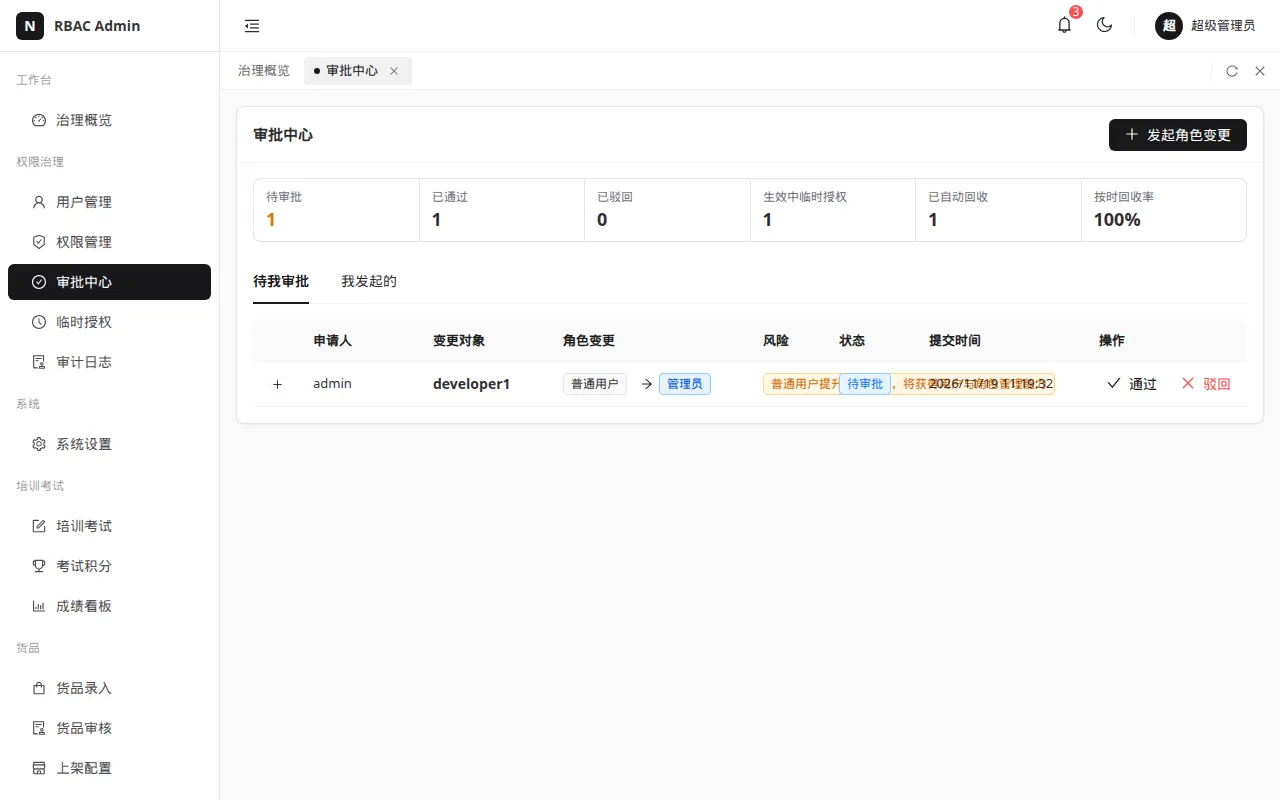
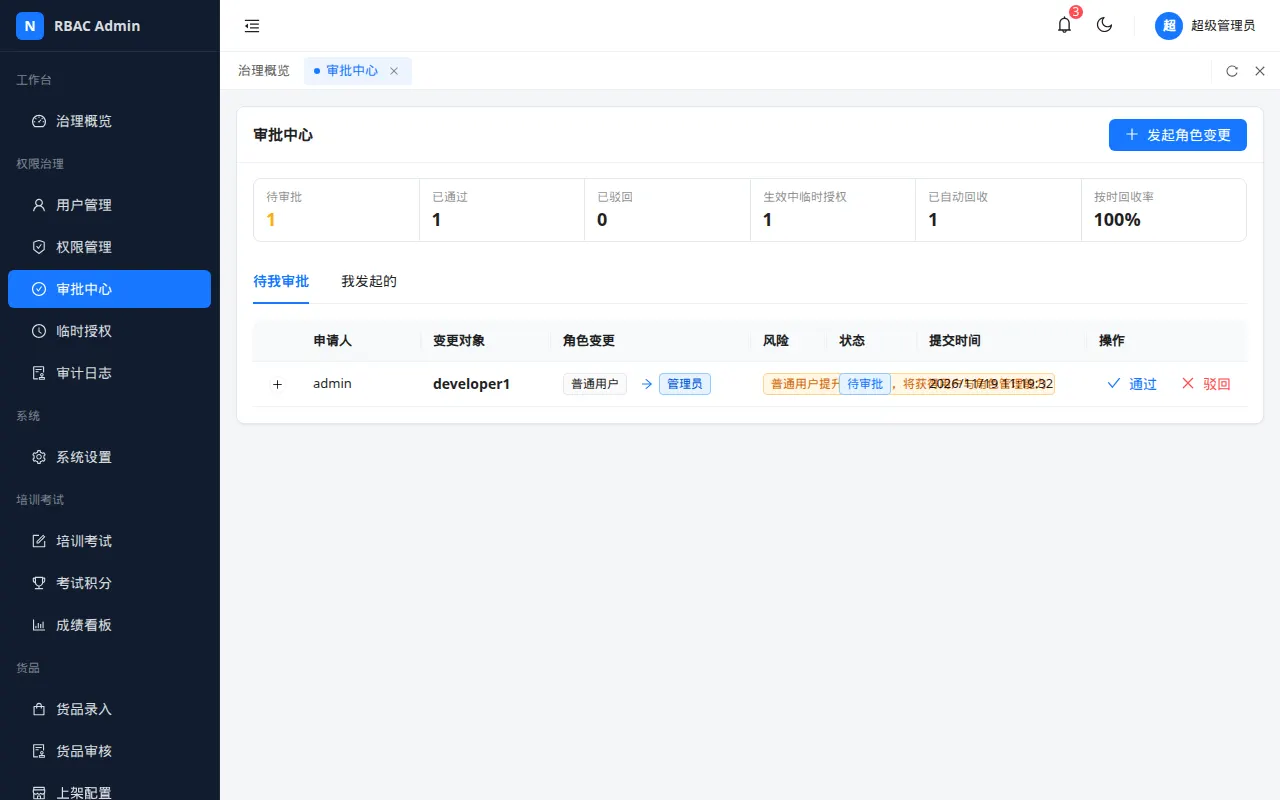
style: restore the original blue theme colors
Put #1677ff back as the accent for buttons, links, focus, and the
selected sidebar item. Surfaces and the navy sidebar return to the
pre-pass slate values in both themes. Chart series use the original
blue and category colors. The flat login, type, and layout changes stay.

diff --git a/app/globals.css b/app/globals.css
@@ -6,49 +6,49 @@
  * Design Tokens —— 数据密集型企业风（明色）
  * ============================================================ */
 :root {
-  /* 浅色：微暖灰白底 + 纯白面板。强调色只有墨色。 */
-  --bg-layout: #fafafa;
+  /* 浅色表面回到原来的冷调 slate，强调色是 #1677ff。 */
+  --bg-layout: #f4f6f8;
   --bg-container: #ffffff;
   --bg-elevated: #ffffff;
-  --bg-subtle: #f4f4f5;
-  --bg-hover: rgba(24, 24, 27, 0.04);
-  --bg-active: rgba(24, 24, 27, 0.06);
+  --bg-subtle: #f7f9fb;
+  --bg-hover: rgba(15, 23, 42, 0.04);
+  --bg-active: rgba(22, 119, 255, 0.08);
 
-  --sider-bg: #ffffff;
-  --sider-bg-hover: rgba(24, 24, 27, 0.04);
-  --sider-bg-selected: #18181b;
-  --sider-text: rgba(24, 24, 27, 0.88);
-  --sider-text-muted: rgba(24, 24, 27, 0.45);
-  --sider-divider: #e4e4e7;
+  --sider-bg: #101c2e;
+  --sider-bg-hover: rgba(255, 255, 255, 0.07);
+  --sider-bg-selected: #1677ff;
+  --sider-text: rgba(255, 255, 255, 0.85);
+  --sider-text-muted: rgba(255, 255, 255, 0.45);
+  --sider-divider: rgba(255, 255, 255, 0.08);
 
-  --border-base: rgba(228, 228, 231, 0.95);
-  --border-subtle: #f4f4f5;
-  --border-strong: #d4d4d8;
+  --border-base: #e3e8ef;
+  --border-subtle: #eef1f5;
+  --border-strong: #cdd5df;
 
-  --text-primary: rgba(24, 24, 27, 0.92);
-  --text-secondary: rgba(24, 24, 27, 0.65);
-  --text-tertiary: #71717a;
-  --text-disabled: rgba(24, 24, 27, 0.28);
+  --text-primary: rgba(0, 0, 0, 0.88);
+  --text-secondary: rgba(0, 0, 0, 0.65);
+  --text-tertiary: rgba(0, 0, 0, 0.45);
+  --text-disabled: rgba(0, 0, 0, 0.25);
 
-  --color-primary: #18181b;
-  --color-primary-hover: #27272a;
-  --color-primary-active: #09090b;
+  --color-primary: #1677ff;
+  --color-primary-hover: #4096ff;
+  --color-primary-active: #0958d9;
   --accent-contrast: #ffffff;
-  --color-success: #16a34a;
+  --color-success: #52c41a;
   --color-success-bg: #f0fdf4;
-  --color-success-text: #15803d;
-  --color-warning: #d97706;
-  --color-danger: #dc2626;
-  --color-info: #18181b;
+  --color-success-text: #16a34a;
+  --color-warning: #faad14;
+  --color-danger: #ff4d4f;
+  --color-info: #1677ff;
 
-  --chart-stroke: #18181b;
-  --chart-grid: #e4e4e7;
-  --chart-fill: rgba(24, 24, 27, 0.12);
-  --chart-muted: #71717a;
+  --chart-stroke: #1677ff;
+  --chart-grid: rgba(128, 128, 128, 0.15);
+  --chart-fill: rgba(22, 119, 255, 0.25);
+  --chart-muted: rgba(0, 0, 0, 0.45);
 
   /* —— 状态标签 —— */
-  --tag-muted-bg: #f4f4f5;
-  --tag-muted-text: #52525b;
+  --tag-muted-bg: #f3f4f6;
+  --tag-muted-text: #6b7280;
 
   --shadow-card: 0 1px 2px rgba(0, 0, 0, 0.04);
   --shadow-elevated: 0 1px 2px rgba(0, 0, 0, 0.06);
@@ -69,49 +69,49 @@
   --sider-width-collapsed: 64px;
 
   /* —— Table 专用 token —— */
-  --table-stripe-bg: #fafafa;
+  --table-stripe-bg: #ebf0f9;
 }
 
 /* ============================================================
  * Design Tokens —— 暗色主题
  * ============================================================ */
 html[data-theme='dark'] {
-  /* 深色：中性锌黑，不用发蓝的 slate。强调色反转为浅灰，保证按钮可读。 */
-  --table-stripe-bg: #18181b;
+  /* 暗色表面回到原来的蓝灰，强调色仍是 #1677ff。 */
+  --table-stripe-bg: #1a1d25;
 
-  --bg-layout: #09090b;
-  --bg-container: #18181b;
-  --bg-elevated: #27272a;
-  --bg-subtle: #18181b;
+  --bg-layout: #0f1115;
+  --bg-container: #181a20;
+  --bg-elevated: #1f2128;
+  --bg-subtle: #14161b;
   --bg-hover: rgba(255, 255, 255, 0.06);
-  --bg-active: rgba(255, 255, 255, 0.08);
+  --bg-active: rgba(22, 119, 255, 0.16);
 
-  --sider-bg: #09090b;
-  --sider-bg-hover: rgba(255, 255, 255, 0.06);
-  --sider-bg-selected: #f4f4f5;
-  --sider-text: rgba(255, 255, 255, 0.88);
+  --sider-bg: #0a0c10;
+  --sider-bg-hover: rgba(255, 255, 255, 0.07);
+  --sider-bg-selected: #1677ff;
+  --sider-text: rgba(255, 255, 255, 0.85);
   --sider-text-muted: rgba(255, 255, 255, 0.45);
-  --sider-divider: rgba(255, 255, 255, 0.08);
+  --sider-divider: rgba(255, 255, 255, 0.06);
 
-  --border-base: rgba(255, 255, 255, 0.08);
-  --border-subtle: rgba(255, 255, 255, 0.06);
-  --border-strong: rgba(255, 255, 255, 0.16);
+  --border-base: #2a2d36;
+  --border-subtle: #23262e;
+  --border-strong: #3a3d47;
 
-  --text-primary: rgba(255, 255, 255, 0.92);
+  --text-primary: rgba(255, 255, 255, 0.88);
   --text-secondary: rgba(255, 255, 255, 0.65);
   --text-tertiary: rgba(255, 255, 255, 0.45);
-  --text-disabled: rgba(255, 255, 255, 0.28);
+  --text-disabled: rgba(255, 255, 255, 0.25);
 
-  --color-primary: #f4f4f5;
-  --color-primary-hover: #ffffff;
-  --color-primary-active: #e4e4e7;
-  --accent-contrast: #18181b;
-  --color-success-bg: rgba(22, 163, 74, 0.16);
-  --color-success-text: #4ade80;
+  --color-primary: #1677ff;
+  --color-primary-hover: #4096ff;
+  --color-primary-active: #0958d9;
+  --accent-contrast: #ffffff;
+  --color-success-bg: rgba(82, 196, 26, 0.16);
+  --color-success-text: #73d13d;
 
-  --chart-stroke: #e4e4e7;
-  --chart-grid: rgba(255, 255, 255, 0.08);
-  --chart-fill: rgba(244, 244, 245, 0.12);
+  --chart-stroke: #1677ff;
+  --chart-grid: rgba(128, 128, 128, 0.2);
+  --chart-fill: rgba(22, 119, 255, 0.25);
   --chart-muted: rgba(255, 255, 255, 0.45);
 
   --tag-muted-bg: rgba(255, 255, 255, 0.08);
@@ -529,10 +529,10 @@ a {
 
 /* 侧边栏深色滚动条 */
 .admin-sider ::-webkit-scrollbar-thumb {
-  background: var(--border-strong);
+  background: rgba(255, 255, 255, 0.15);
 }
 .admin-sider ::-webkit-scrollbar-thumb:hover {
-  background: var(--text-tertiary);
+  background: rgba(255, 255, 255, 0.3);
 }
 
 .stat-strip {

diff --git a/components/providers/ThemeProvider.tsx b/components/providers/ThemeProvider.tsx
@@ -135,8 +135,8 @@ export function ThemeProvider({ children }: ThemeProviderProps) {
       prefix: 'ant',
     },
     token: {
-      colorPrimary: resolved === 'dark' ? '#f4f4f5' : '#18181b',
-      colorLink: resolved === 'dark' ? '#f4f4f5' : '#18181b',
+      colorPrimary: '#1677ff',
+      colorLink: '#1677ff',
       fontFamily: '"SF Pro Text", "Segoe UI", "PingFang SC", "Hiragino Sans GB", "Noto Sans SC", "Microsoft YaHei", sans-serif',
       borderRadius: 6,
       fontSize: 14,
@@ -145,34 +145,29 @@ export function ThemeProvider({ children }: ThemeProviderProps) {
       fontSizeHeading4: 18,
       fontSizeHeading5: 16,
       wireframe: false,
-      colorBgLayout: resolved === 'dark' ? '#09090b' : '#fafafa',
-      colorBgContainer: resolved === 'dark' ? '#18181b' : '#ffffff',
-      colorBgElevated: resolved === 'dark' ? '#27272a' : '#ffffff',
-      colorBorder: resolved === 'dark' ? 'rgba(255,255,255,0.08)' : '#e4e4e7',
-      colorBorderSecondary: resolved === 'dark' ? 'rgba(255,255,255,0.06)' : '#f4f4f5',
-      colorText: resolved === 'dark' ? 'rgba(255,255,255,0.92)' : 'rgba(24,24,27,0.92)',
+      colorBgLayout: resolved === 'dark' ? '#0f1115' : '#f4f6f8',
+      colorBgContainer: resolved === 'dark' ? '#181a20' : '#ffffff',
+      colorBgElevated: resolved === 'dark' ? '#1f2128' : '#ffffff',
+      colorBorder: resolved === 'dark' ? '#2a2d36' : '#e3e8ef',
+      colorBorderSecondary: resolved === 'dark' ? '#23262e' : '#eef1f5',
+      colorText: resolved === 'dark' ? 'rgba(255,255,255,0.88)' : 'rgba(0,0,0,0.88)',
     },
     components: {
       Layout: {
-        headerBg: resolved === 'dark' ? '#18181b' : '#ffffff',
+        headerBg: resolved === 'dark' ? '#181a20' : '#ffffff',
         headerHeight: 52,
         headerPadding: '0 16px',
-        siderBg: resolved === 'dark' ? '#09090b' : '#ffffff',
-        bodyBg: resolved === 'dark' ? '#09090b' : '#fafafa',
+        siderBg: resolved === 'dark' ? '#0a0c10' : '#101c2e',
+        bodyBg: resolved === 'dark' ? '#0f1115' : '#f4f6f8',
       },
       Menu: {
-        itemBg: resolved === 'dark' ? '#09090b' : '#ffffff',
-        itemColor: resolved === 'dark' ? 'rgba(255,255,255,0.72)' : 'rgba(24,24,27,0.78)',
-        itemHoverBg: resolved === 'dark' ? 'rgba(255,255,255,0.06)' : 'rgba(24,24,27,0.04)',
-        itemSelectedBg: resolved === 'dark' ? '#f4f4f5' : '#18181b',
-        itemSelectedColor: resolved === 'dark' ? '#18181b' : '#ffffff',
-        darkItemBg: '#09090b',
-        darkSubMenuItemBg: '#09090b',
-        darkItemSelectedBg: '#f4f4f5',
-        darkItemSelectedColor: '#18181b',
+        darkItemBg: resolved === 'dark' ? '#0a0c10' : '#101c2e',
+        darkSubMenuItemBg: resolved === 'dark' ? '#0a0c10' : '#0a1422',
+        darkItemSelectedBg: '#1677ff',
+        darkItemSelectedColor: '#ffffff',
         darkItemHoverBg: 'rgba(255, 255, 255, 0.06)',
-        darkItemColor: 'rgba(255,255,255,0.72)',
-        itemHeight: 36,
+        darkItemColor: 'rgba(255,255,255,0.85)',
+        itemHeight: 38,
         itemMarginInline: 8,
         itemBorderRadius: 6,
         fontSize: 14,
@@ -183,7 +178,7 @@ export function ThemeProvider({ children }: ThemeProviderProps) {
         headerFontSize: 15,
       },
       Table: {
-        headerBg: resolved === 'dark' ? '#27272a' : '#fafafa',
+        headerBg: resolved === 'dark' ? '#1f2128' : '#f7f9fb',
         headerColor: resolved === 'dark' ? 'rgba(255,255,255,0.88)' : 'rgba(0,0,0,0.88)',
         rowHoverBg: resolved === 'dark' ? 'rgba(255,255,255,0.04)' : 'rgba(15,23,42,0.025)',
         fontSize: 13,

diff --git a/components/dashboard-content.tsx b/components/dashboard-content.tsx
@@ -33,7 +33,6 @@ import {
 } from 'recharts';
 import type { ValueType, NameType } from 'recharts/types/component/DefaultTooltipContent';
 import { request } from '@/lib/request';
-import { useTheme } from '@/components/providers/ThemeProvider';
 
 const { Text } = Typography;
 
@@ -72,8 +71,7 @@ const ACTION_LABELS: Record<string, { label: string; color: string }> = {
   'exam.reject': { label: '试卷驳回', color: 'red' },
 };
 
-const PIE_LIGHT = ['#18181b', '#3f3f46', '#71717a', '#a1a1aa', '#d4d4d8'];
-const PIE_DARK = ['#fafafa', '#d4d4d8', '#a1a1aa', '#71717a', '#52525b'];
+const PIE_COLORS = ['#1677ff', '#52c41a', '#fadb14', '#ff7a45', '#9254de', '#13c2c2', '#f5222d', '#faad14'];
 
 interface StatsData {
   userCount: number;
@@ -86,8 +84,6 @@ interface StatsData {
 }
 
 export default function DashboardContent() {
-  const { resolved } = useTheme();
-  const pieColors = resolved === 'dark' ? PIE_DARK : PIE_LIGHT;
   const [stats, setStats] = useState<StatsData | null>(null);
   const [loading, setLoading] = useState(true);
 
@@ -165,8 +161,8 @@ export default function DashboardContent() {
                 >
                   <defs>
                     <linearGradient id="regGrad" x1="0" y1="0" x2="0" y2="1">
-                      <stop offset="0%" stopColor="var(--chart-stroke)" stopOpacity={0.12} />
-                      <stop offset="100%" stopColor="var(--chart-stroke)" stopOpacity={0} />
+                      <stop offset="5%" stopColor="#1677ff" stopOpacity={0.25} />
+                      <stop offset="95%" stopColor="#1677ff" stopOpacity={0} />
                     </linearGradient>
                   </defs>
                   <CartesianGrid strokeDasharray="3 3" stroke="var(--chart-grid)" vertical={false} />
@@ -252,7 +248,7 @@ export default function DashboardContent() {
                     dataKey="value"
                   >
                     {s.auditActionCounts.map((_, idx) => (
-                      <Cell key={idx} fill={pieColors[idx % pieColors.length]} />
+                      <Cell key={idx} fill={PIE_COLORS[idx % PIE_COLORS.length]} />
                     ))}
                   </Pie>
                   <ReTooltip
@@ -274,13 +270,13 @@ export default function DashboardContent() {
                         width: 8,
                         height: 8,
                         borderRadius: '50%',
-                        background: pieColors[idx % pieColors.length],
+                        background: PIE_COLORS[idx % PIE_COLORS.length],
                         flexShrink: 0,
                       }}
                     />
                     <Text style={{ fontSize: 12 }}>{ACTION_LABELS[r.action]?.label ?? r.action}</Text>
                   </div>
-                  <Badge count={r.count} style={{ backgroundColor: pieColors[idx % pieColors.length] }} />
+                  <Badge count={r.count} style={{ backgroundColor: PIE_COLORS[idx % PIE_COLORS.length] }} />
                 </div>
               ))}
             </div>

diff --git a/lib/chart-ink.ts b/lib/chart-ink.ts
@@ -1,14 +1,13 @@
-/** 图表只用一种墨色，明暗主题各取可读的一档。 */
+/** 图表序列色回到原来的品牌蓝和分类色，坐标轴仍用中性灰。 */
 export function readChartInk() {
   const dark = typeof document !== 'undefined' && document.documentElement.dataset.theme === 'dark';
   return {
-    ink: dark ? '#e4e4e7' : '#18181b',
-    grid: dark ? 'rgba(255,255,255,0.08)' : '#e4e4e7',
-    muted: dark ? 'rgba(255,255,255,0.45)' : '#71717a',
-    surface: dark ? '#27272a' : '#ffffff',
-    text: dark ? 'rgba(255,255,255,0.92)' : '#18181b',
-    ramp: dark
-      ? ['#fafafa', '#d4d4d8', '#a1a1aa', '#71717a']
-      : ['#18181b', '#52525b', '#a1a1aa', '#d4d4d8'],
+    ink: '#1677ff',
+    rank: '#69b1ff',
+    grid: dark ? 'rgba(128,128,128,0.2)' : 'rgba(128,128,128,0.15)',
+    muted: dark ? 'rgba(255,255,255,0.45)' : 'rgba(0,0,0,0.45)',
+    surface: dark ? '#1f2128' : '#ffffff',
+    text: dark ? 'rgba(255,255,255,0.88)' : 'rgba(0,0,0,0.88)',
+    ramp: ['#ff7875', '#ffc53d', '#95de64'],
   };
 }

diff --git a/components/admin-sider.tsx b/components/admin-sider.tsx
@@ -20,7 +20,6 @@ import {
 import Link from 'next/link';
 import { usePathname, useRouter } from 'next/navigation';
 import { useEffect, useMemo } from 'react';
-import { useTheme } from '@/components/providers/ThemeProvider';
 
 const { Sider } = Layout;
 
@@ -153,8 +152,6 @@ export default function AdminSider(props: AdminSiderProps) {
   const { collapsed, role } = props;
   const pathname = usePathname();
   const router = useRouter();
-  const { resolved } = useTheme();
-
   const visibleMenus = useMemo(
     () => menuConfig.filter((item) => item.roles.includes(role)),
     [role],
@@ -283,7 +280,7 @@ export default function AdminSider(props: AdminSiderProps) {
       {/* 菜单区（可滚动） */}
       <div style={{ flex: 1, overflowY: 'auto', overflowX: 'hidden', paddingTop: 8 }}>
         <Menu
-          theme={resolved === 'dark' ? 'dark' : 'light'}
+          theme="dark"
           mode="inline"
           selectedKeys={selectedKeys}
           items={menuItems}

diff --git a/components/exam/charts/dept-rank-chart.tsx b/components/exam/charts/dept-rank-chart.tsx
@@ -25,7 +25,7 @@ export default function DeptRankChart() {
     const ink = readChartInk();
     const chart = echarts.init(ref.current);
     chart.setOption({
-      color: [ink.ink],
+      color: [ink.rank],
       tooltip: { trigger: 'axis', backgroundColor: ink.surface, borderColor: ink.grid, textStyle: { color: ink.text, fontSize: 12 } },
       grid: { left: 72, right: 16, top: 24, bottom: 32 },
       xAxis: { type: 'value', min: 0, max: 100, axisLine: { show: false }, axisTick: { show: false }, splitLine: { lineStyle: { color: ink.grid, type: 'dashed' } }, axisLabel: { color: ink.muted, fontSize: 11 } },

diff --git a/components/notifications-content.module.css b/components/notifications-content.module.css
@@ -73,7 +73,7 @@
 }
 
 .eventItem:hover {
-  background: var(--bg-hover);
+  background: color-mix(in srgb, var(--bg-elevated) 84%, #1677ff 16%);
 }
 
 .eventItemHigh {
